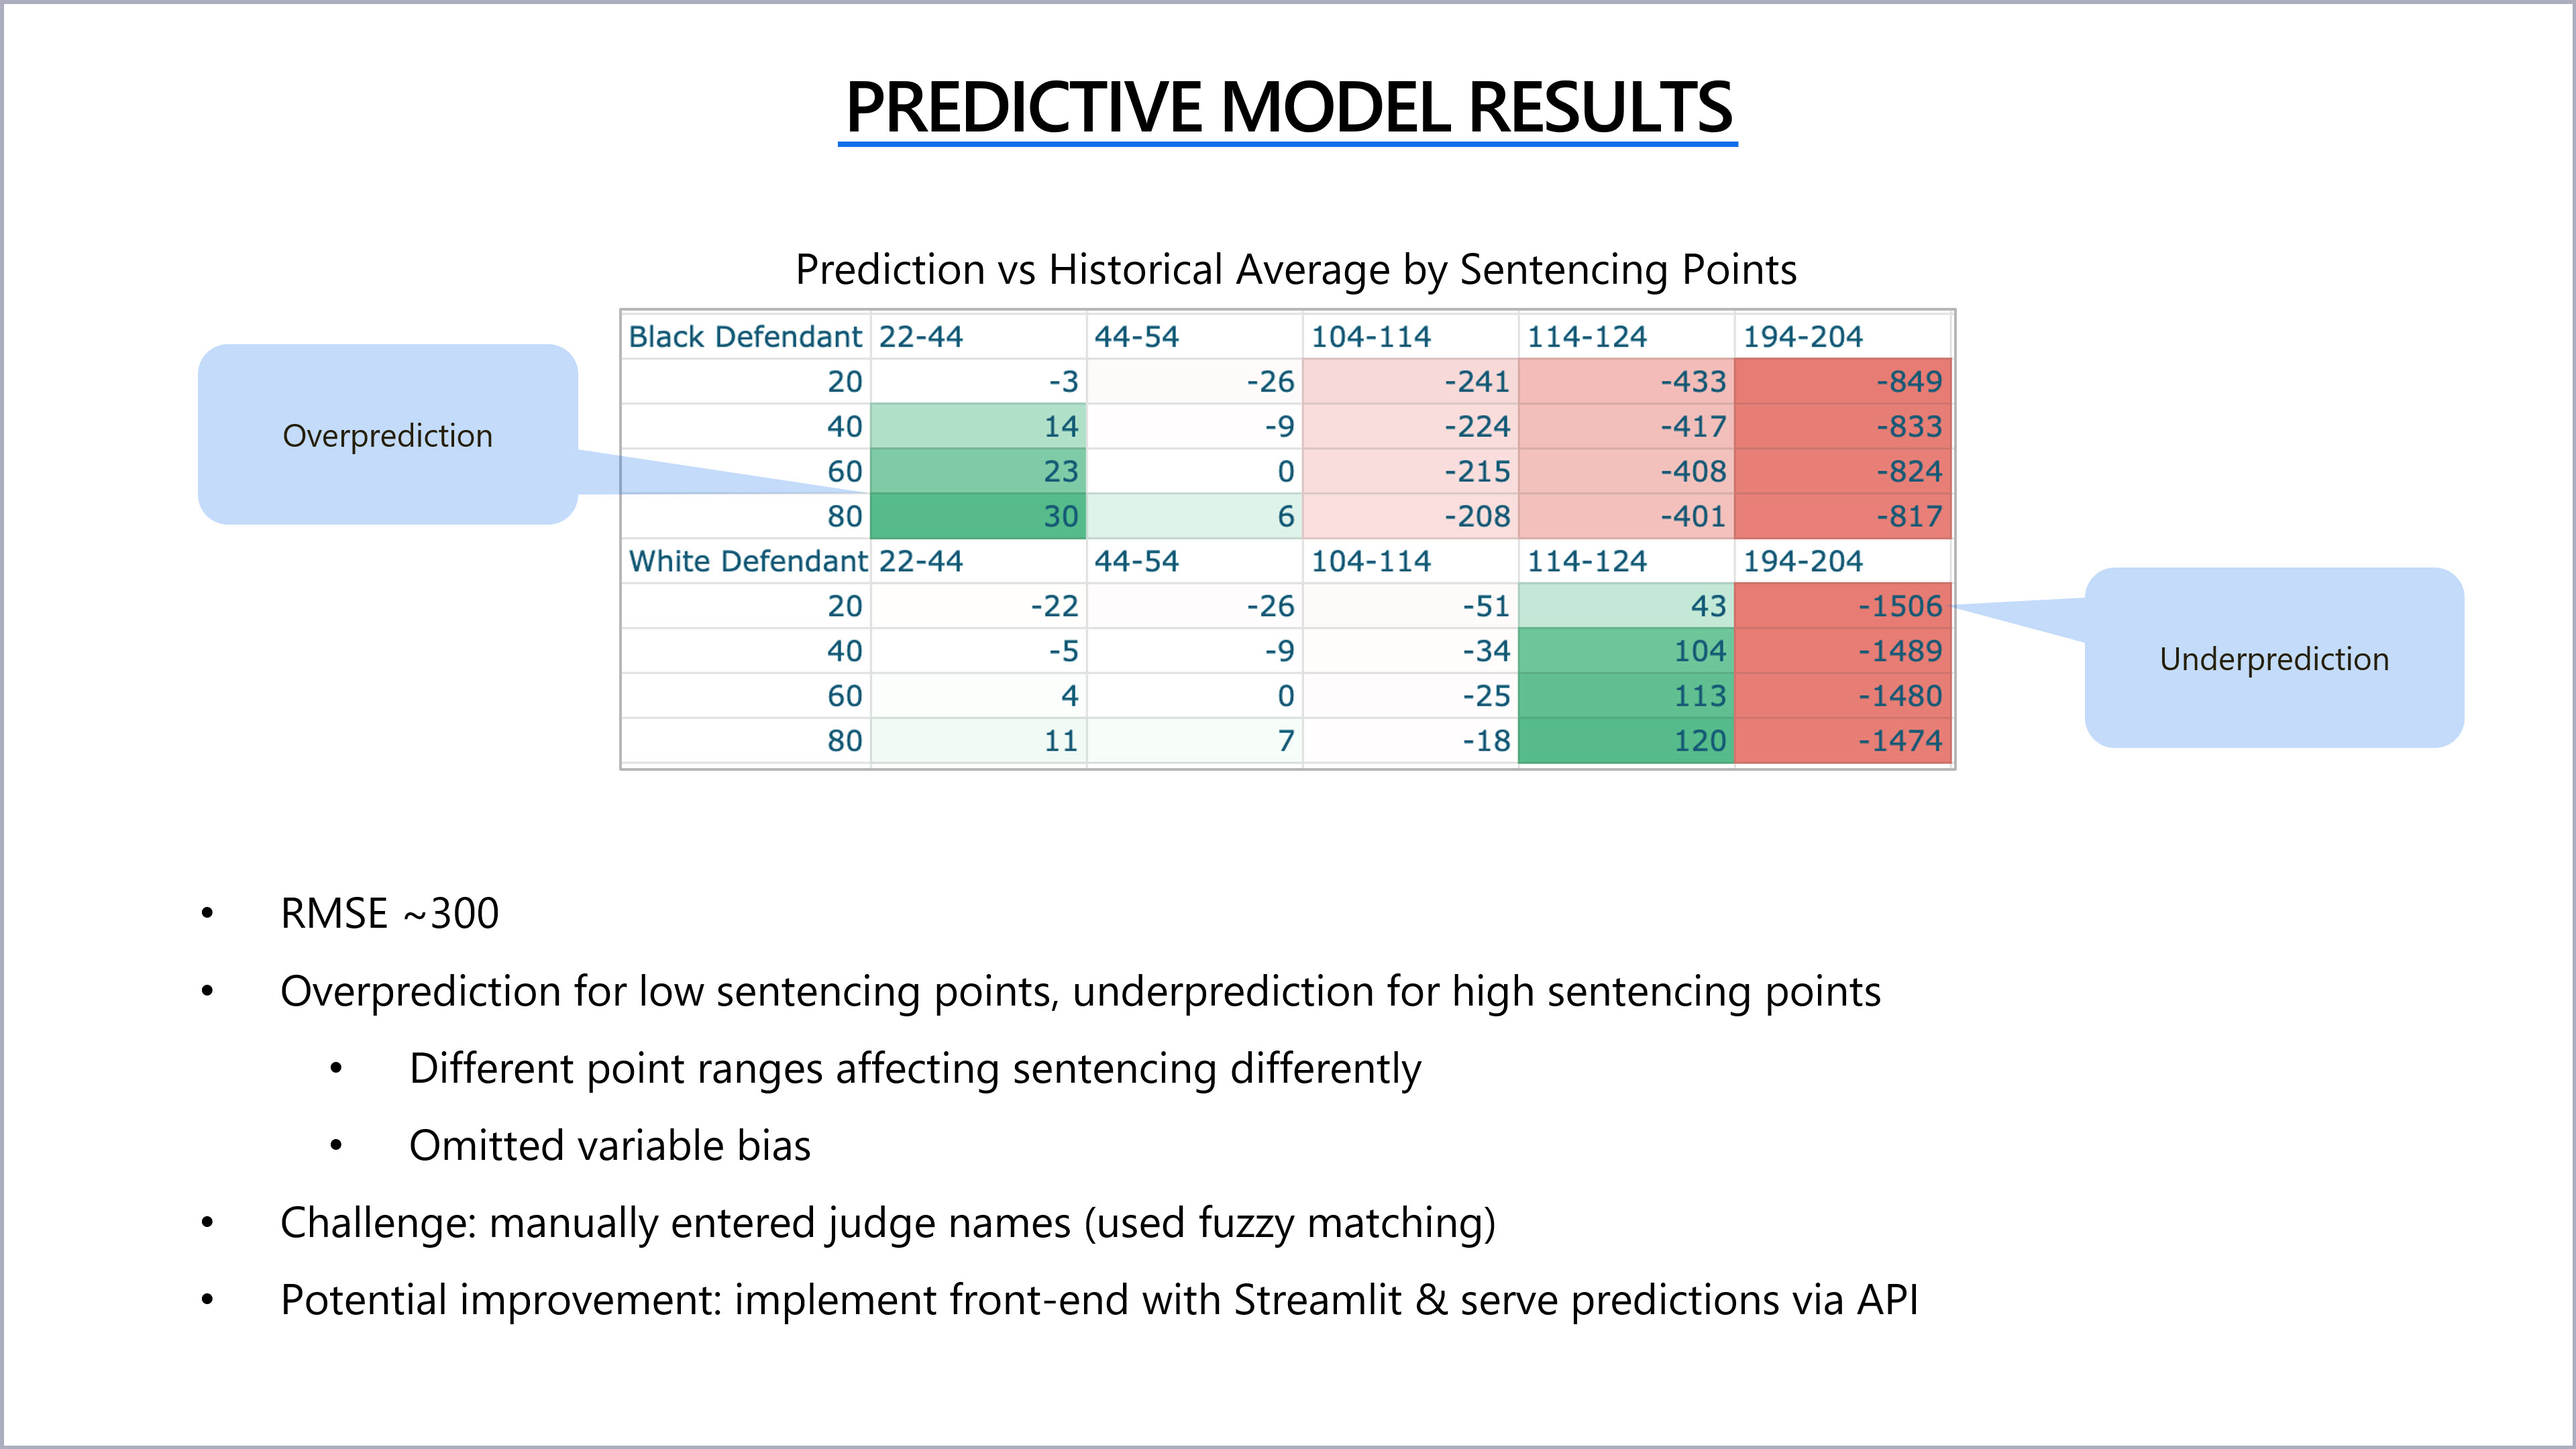
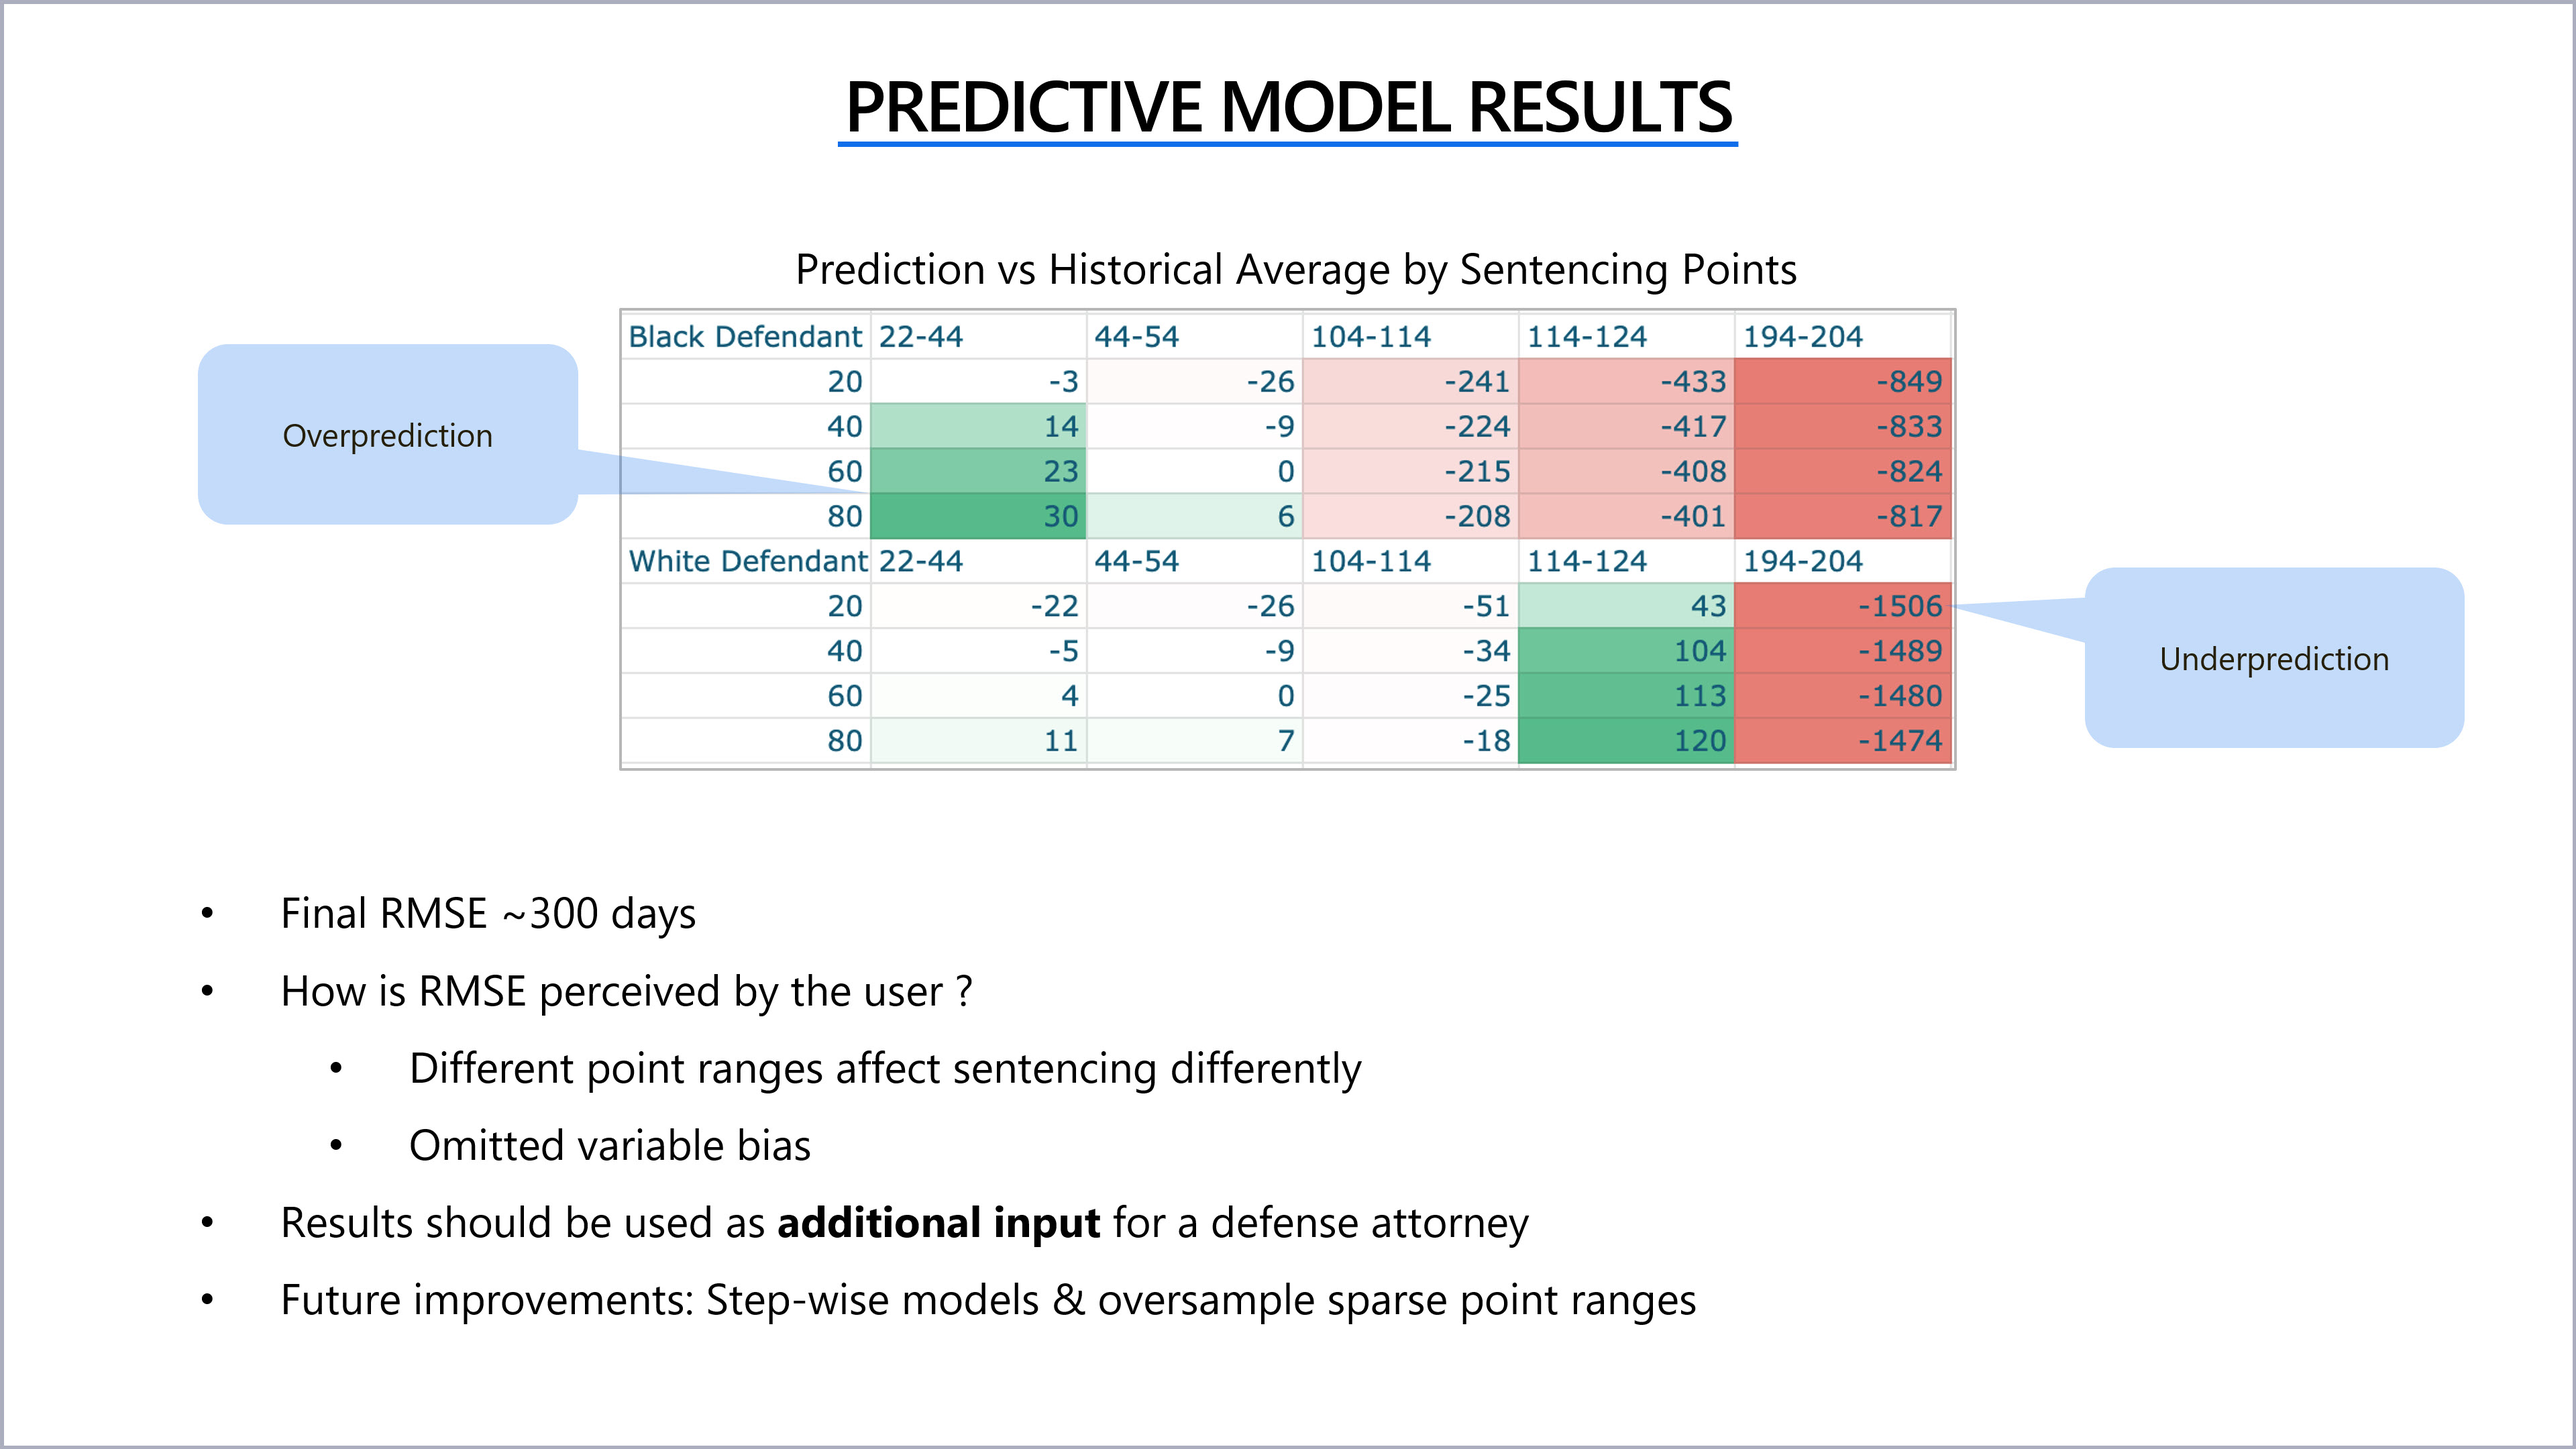
updated images and added extra results

Changed region(s): [[0.0938, 0.8375, 0.6875, 0.9306], [0.0938, 0.6204, 0.7188, 0.7444], [0.7188, 0.8685, 0.75, 0.8995]]

diff --git a/model-details.html b/model-details.html
@@ -125,6 +125,15 @@
                     </div>
                   </div>
                 </div>
+
+                <div class="swiper-slide">
+                  <div class="portfolio-item">
+                    <img src="assets/img/portfolio/pmodel_results2.jpg" class="img-fluid" alt="">
+                    <div class="portfolio-info">
+                      <a href="assets/img/portfolio/pmodel_results2.jpg" data-gallery="portfolioGallery" class="portfolio-lightbox preview-link" title="Predictive Model Results"><i class="bx bx-plus"></i>Zoom In</a>
+                    </div>
+                  </div>
+                </div>
                 
                 <div class="swiper-slide">
                   <div class="portfolio-item">
